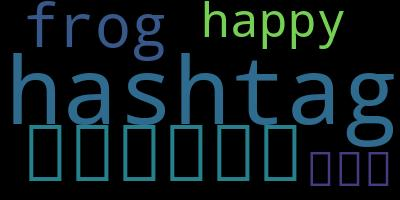
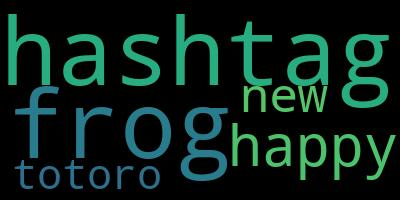
영어 해시태그 완료

diff --git a/articles/templates/articles/wordcloud.html b/articles/templates/articles/wordcloud.html
@@ -2,8 +2,9 @@
 {% load static %}
 
 {% block content %}
-  <img src="{% static 'articles/cloud.jpeg' %}" alt="cloud"> 
-  {% comment %} <img src="{{ my_cloud.cloud.url }}" alt="image"> {% endcomment %}
-  <br>
+  <h2>Popular Hashtags</h2>
+  <div class="container">
+    <img src="{% static 'articles/cloud.jpeg' %}" alt="cloud"> 
+  </div>
   <a href="{% url 'articles:index' %}">BACK</a>
 {% endblock %}

diff --git a/articles/views.py b/articles/views.py
@@ -1,9 +1,10 @@
 from django.shortcuts import render, redirect, get_object_or_404
 from django.views.decorators.http import require_POST, require_http_methods, require_safe
 from django.contrib.auth.decorators import login_required
+from django.conf import settings
+from wordcloud import WordCloud, STOPWORDS
 from .models import Article, Comment, Hashtag, HashtagCloud
 from .forms import ArticleForm, CommentForm
-from wordcloud import WordCloud
 
 # Create your views here.
 @require_safe
@@ -135,21 +136,12 @@ def make_cloud(request):
     # 전체 해시태그 받아오기
     hashtags = Hashtag.objects.all()
     text = ''.join([str(i) for i in hashtags])
+    # stopwords
+    stopwords = set(STOPWORDS)
+    stopwords.add('#')
     # 이미지 만들기
-    wc = WordCloud().generate(text)
+    wc = WordCloud(stopwords=stopwords).generate(text)
     image = wc.to_image()
-    # PIL 파일을 jpeg 파일로 바꾸기
-    # 일단 절대경로로
-    image.save('cloud.jpeg')
-    # 이미지 저장하기
-    # 모델에 저장할 수는 없는걸까?
-    # my_cloud = HashtagCloud.objects.create(cloud=image)
-    return redirect('articles:wordcloud')
-    # return redirect('articles:index')
-
-def wordcloud(request):
-    # my_cloud = get_object_or_404(WordCloud, pk=cloud_pk)
-    # context = {
-    #     'my_cloud': my_cloud, 
-    # }
+    # PIL 파일을 jpeg 파일로 바꿔서 static 폴더에 저장하기
+    image.save(str(settings.STATICFILES_DIRS[2]) + '/articles/cloud.jpeg')
     return render(request, 'articles/wordcloud.html')

diff --git a/carrot_shake/settings.py b/carrot_shake/settings.py
@@ -121,7 +121,7 @@ USE_TZ = True
 # https://docs.djangoproject.com/en/3.1/howto/static-files/
 
 STATIC_URL = '/static/'
-STATICFILES_DIRS = [BASE_DIR / 'carrot_shake' / 'static', BASE_DIR / 'accounts' / 'static',]
+STATICFILES_DIRS = [BASE_DIR / 'carrot_shake' / 'static', BASE_DIR / 'accounts' / 'static', BASE_DIR / 'articles' / 'static',]
 MEDIA_ROOT = BASE_DIR / 'media'
 MEDIA_URL = '/media/' 
 

diff --git a/articles/urls.py b/articles/urls.py
@@ -13,5 +13,4 @@ urlpatterns = [
     path('<int:article_pk>/like', views.like, name='like'),
     path('<int:hash_pk>/hashtag/', views.hashtag, name='hashtag'),
     path('make_cloud/', views.make_cloud, name='make_cloud'),
-    path('wordcloud/', views.wordcloud, name='wordcloud'),
 ]
